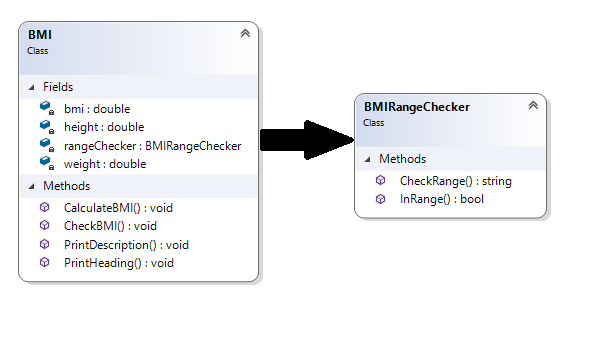
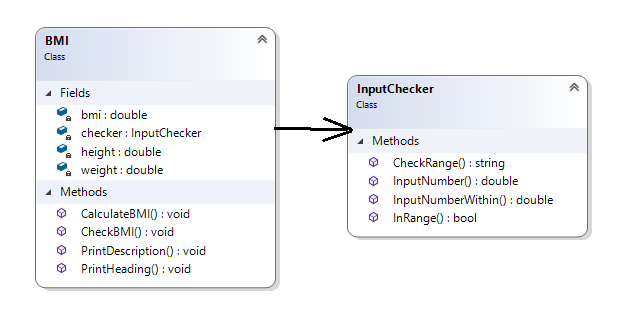
updating class diagram

Changed region(s): [[0.03, 0.0595, 0.96, 0.8631]]

diff --git a/ConsoleAppProject/App01/DistanceConverter.cs b/ConsoleAppProject/App01/DistanceConverter.cs
@@ -27,7 +27,7 @@ namespace ConsoleAppProject.App01
         }
 
         /**
-         * 
+         *  Recives measurments from the user in the measurement of their choice and converts it into a different measurement of their choice
          * 
          * */
         public void Convert()
